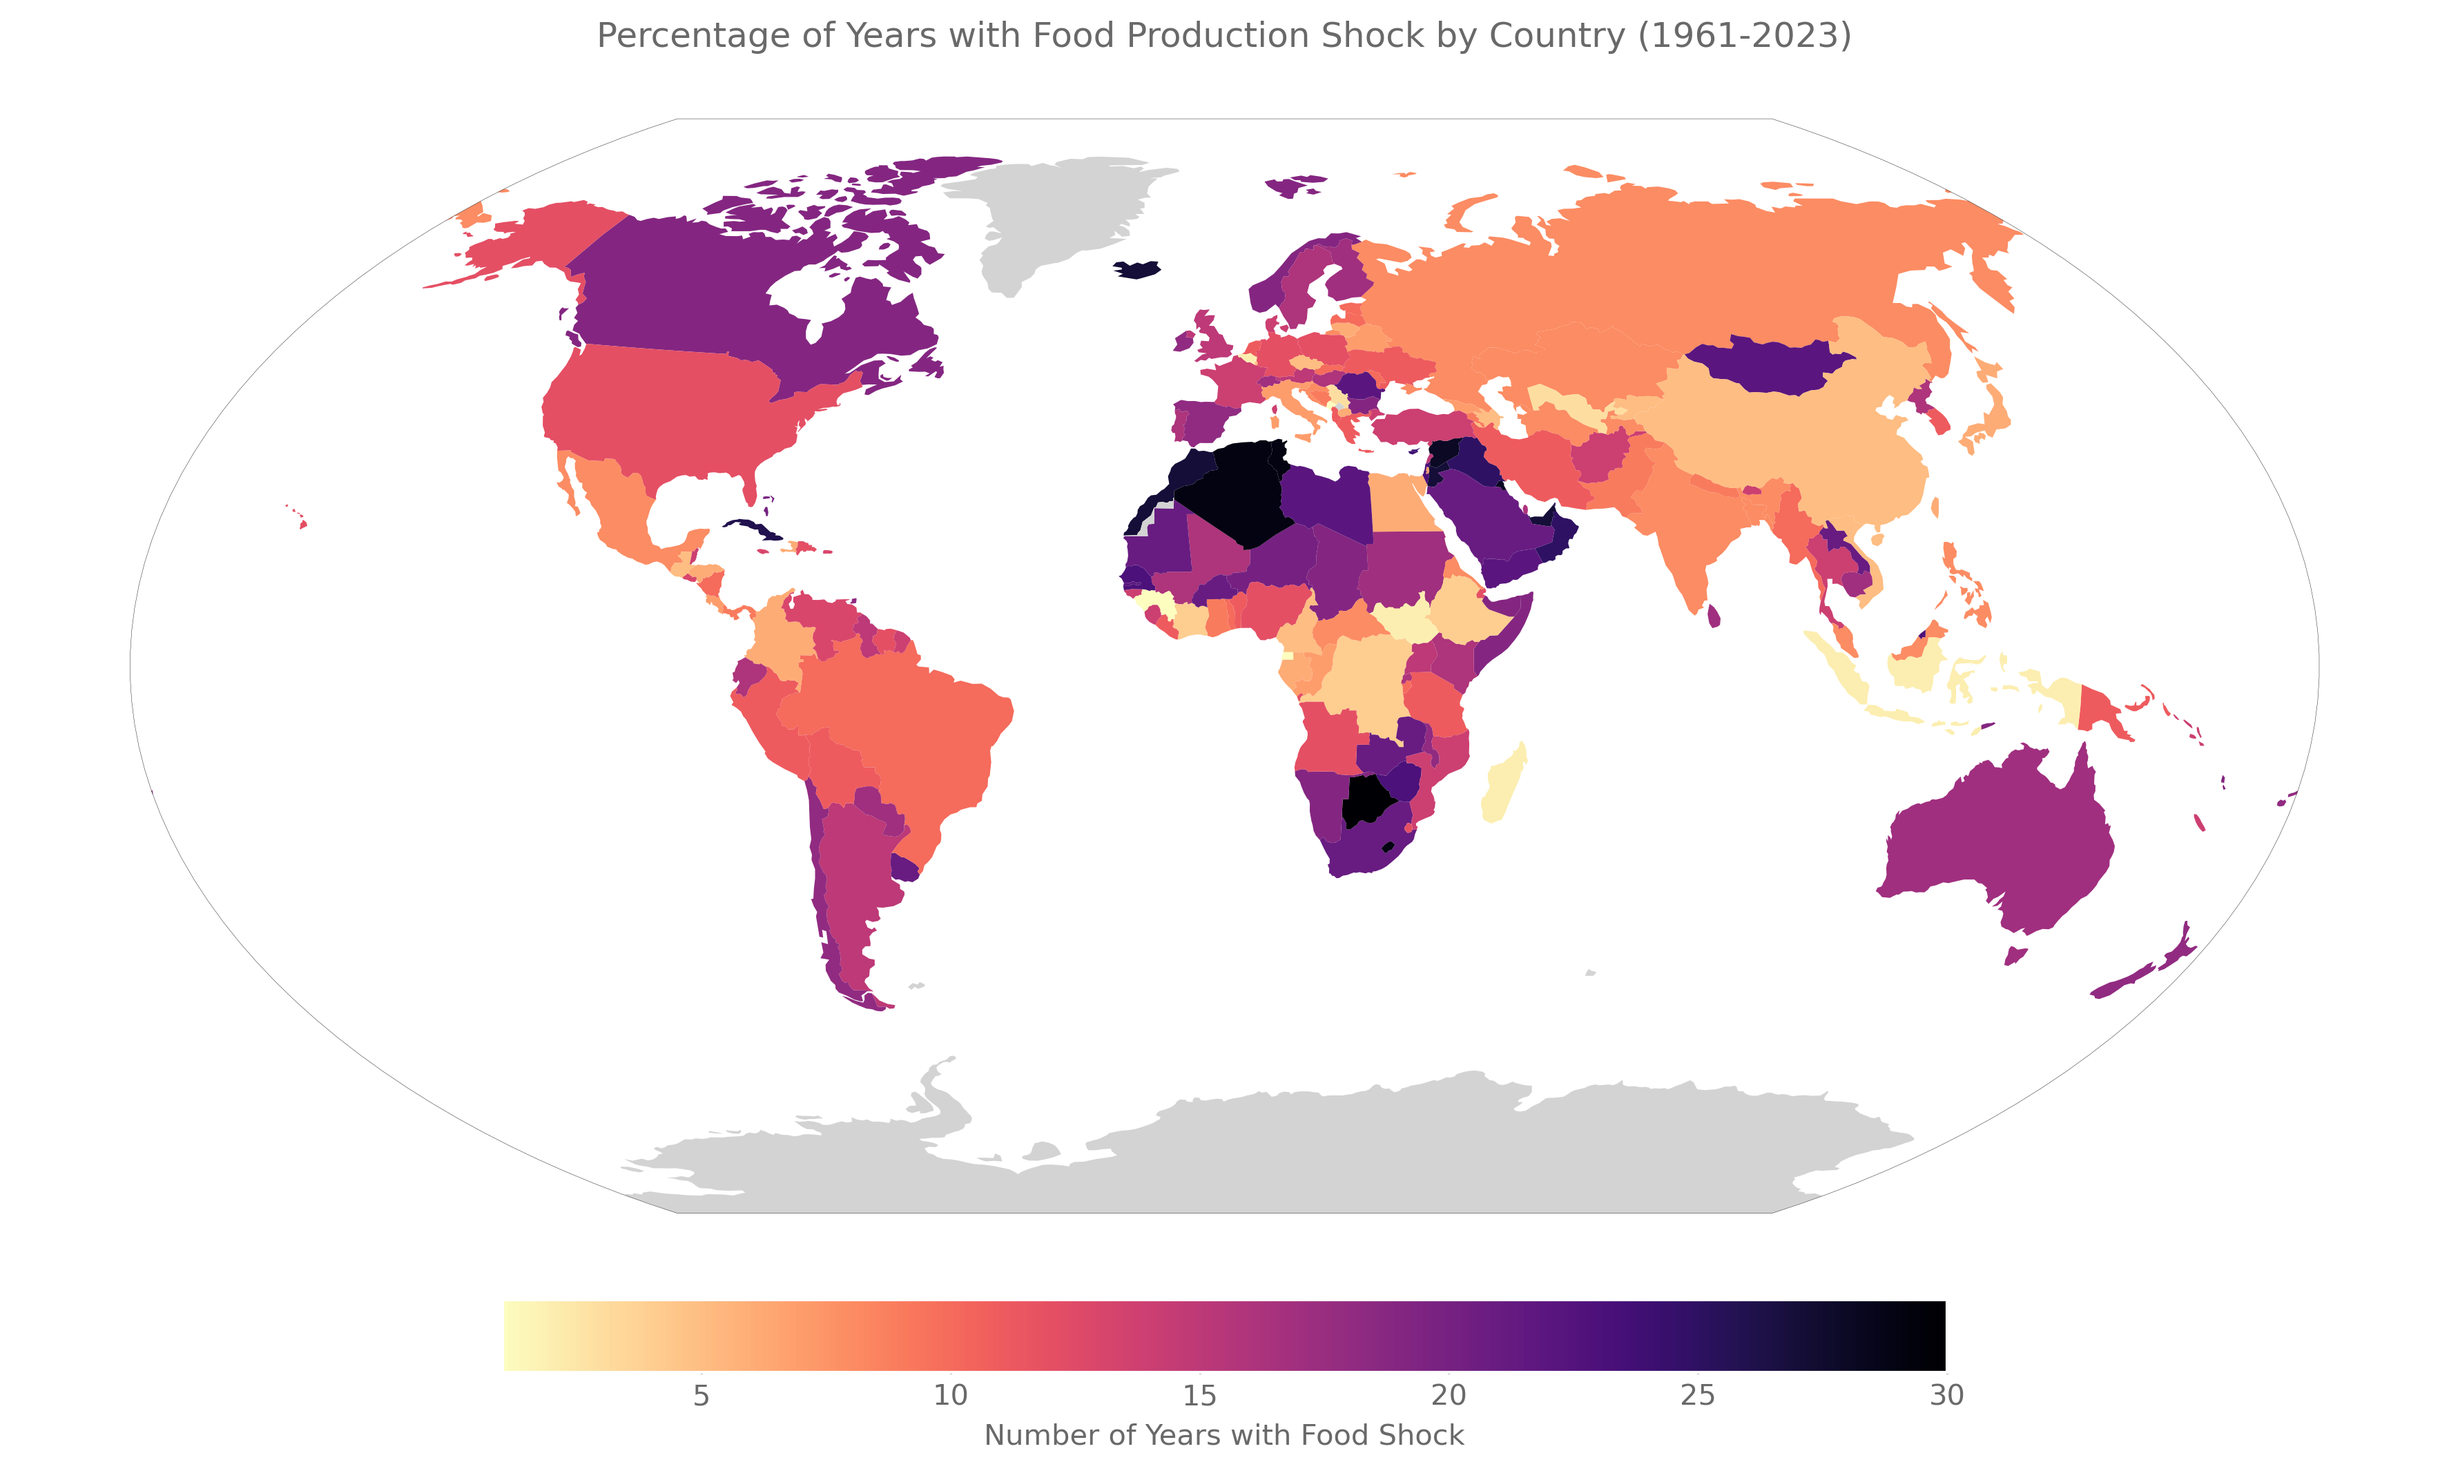
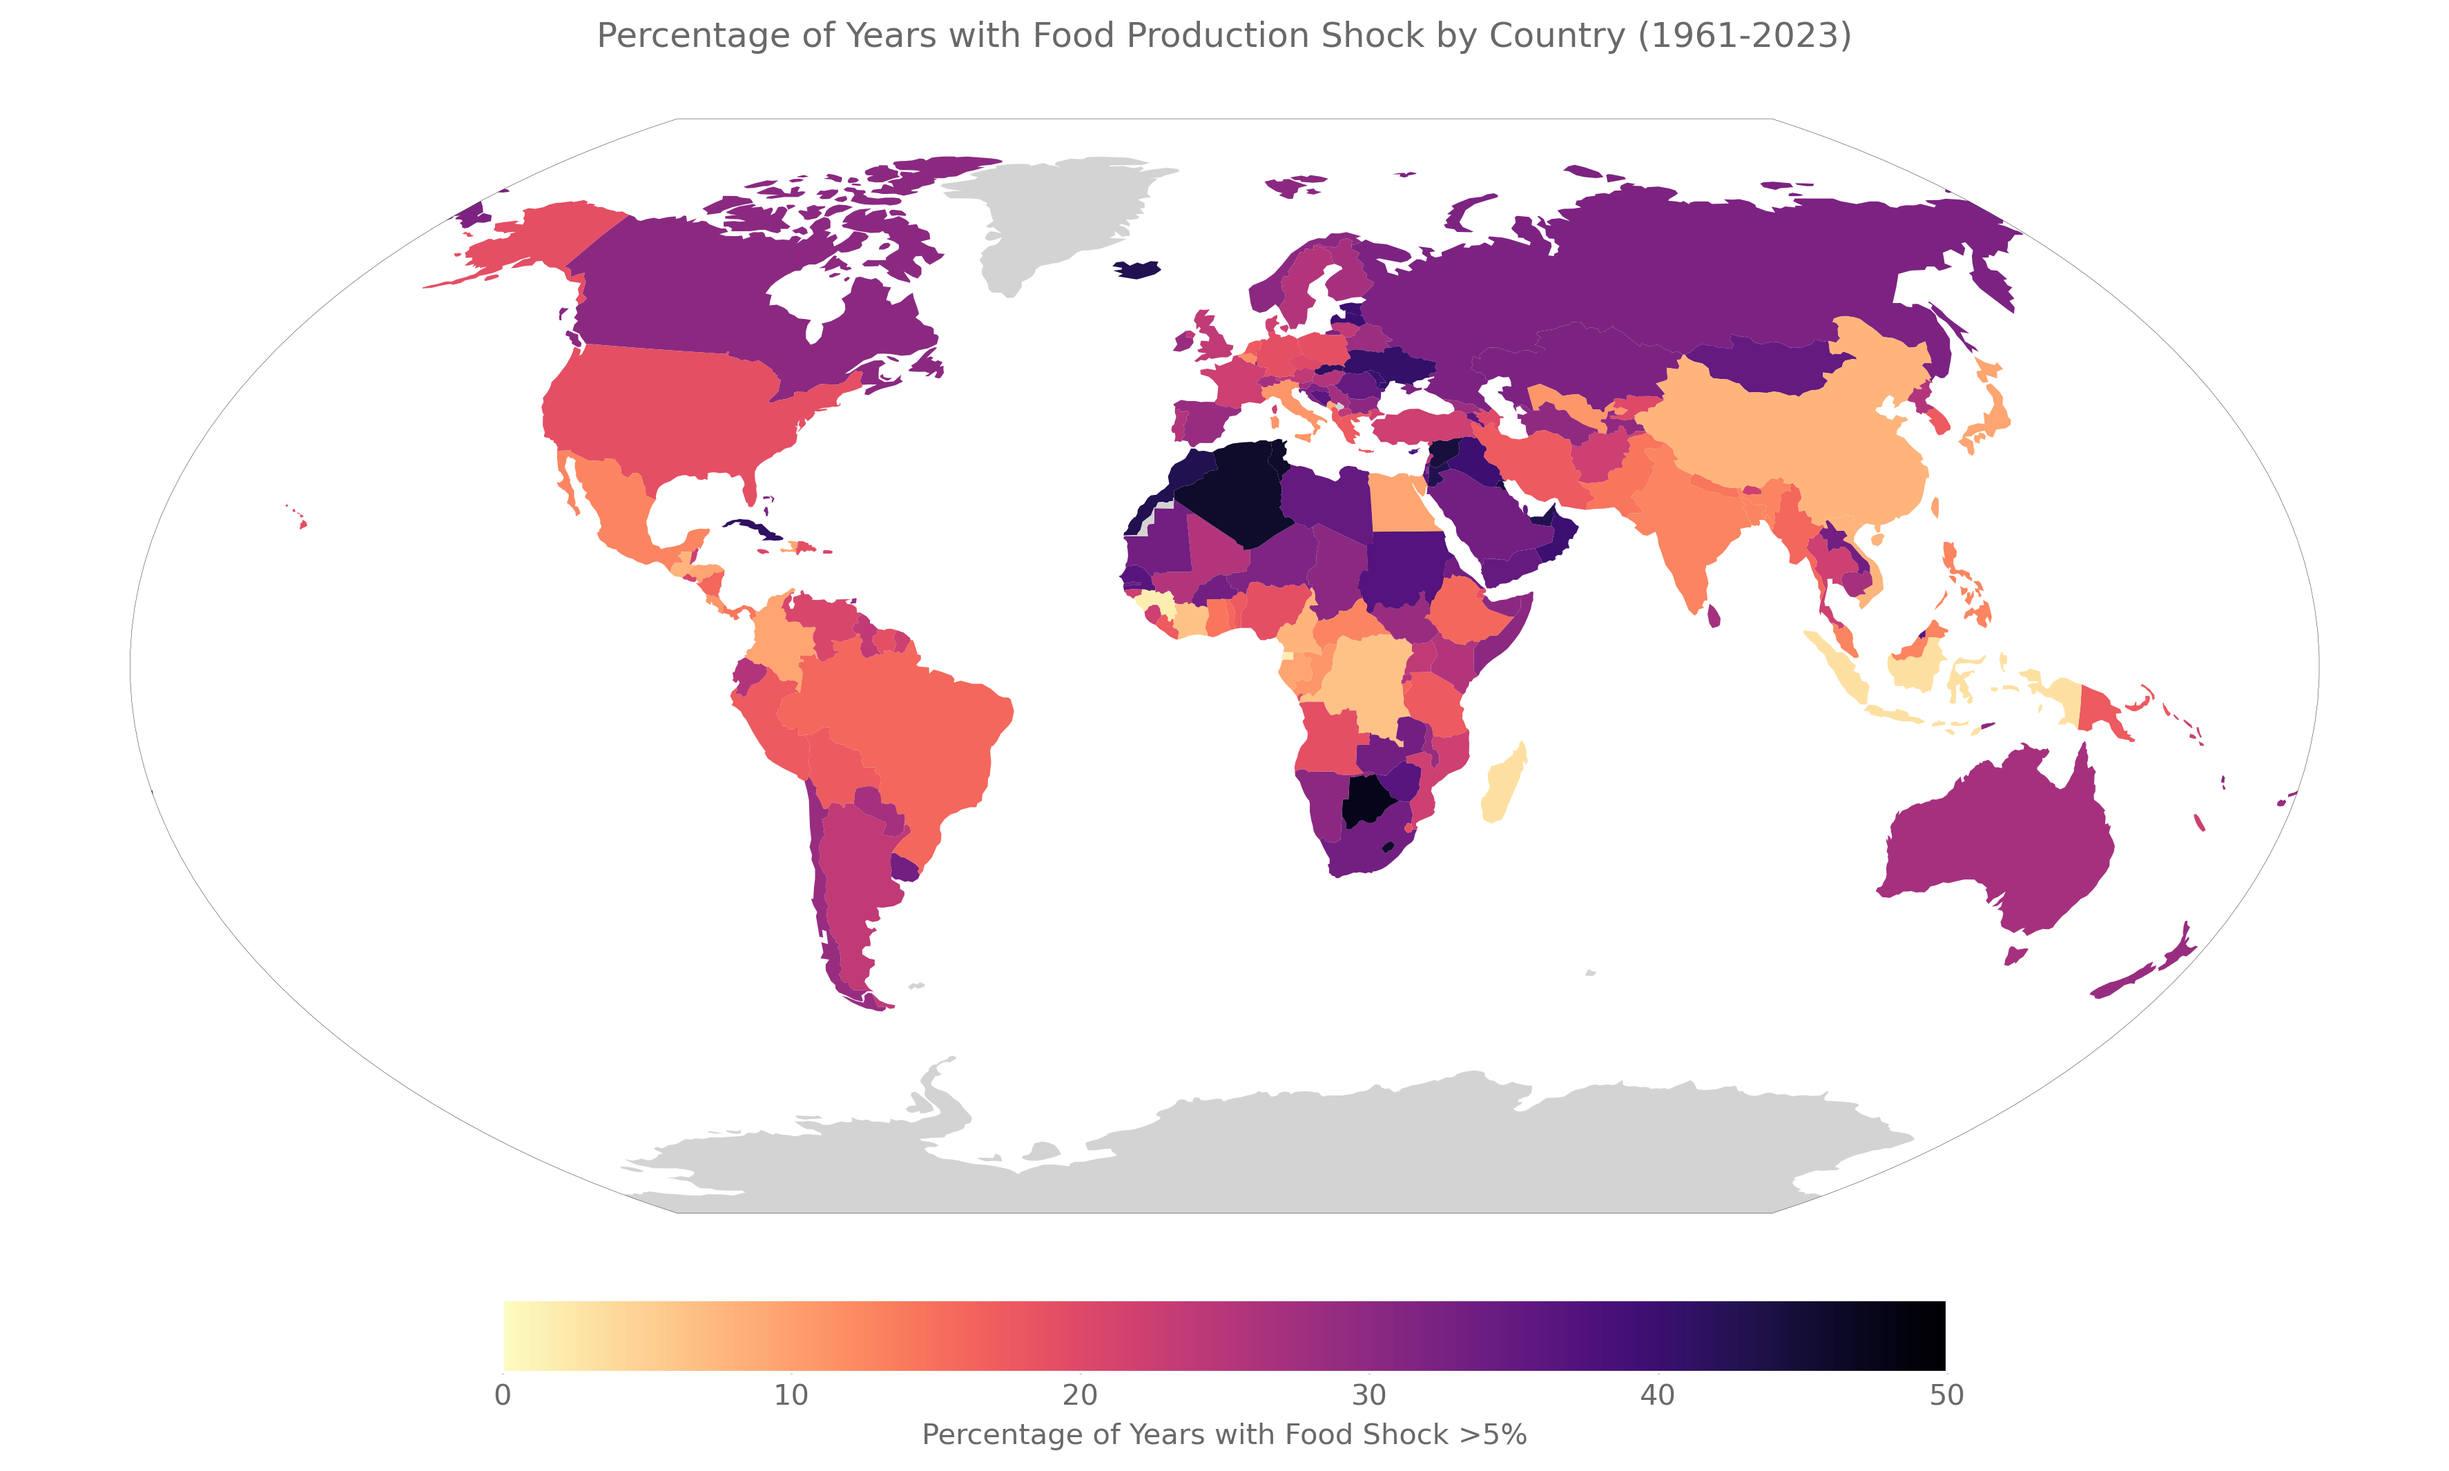
Updated relative shock occurance map

diff --git a/src/plot_maps.py b/src/plot_maps.py
@@ -139,34 +139,77 @@ def plot_map_yield_shock_relative(merged, title, filename):
 
 def plot_map_yield_shock_count(merged, title, filename):
     """
-    Plots the map with the number of years with yield shocks.
+    Plot map showing percentage of years with food production shocks >5%.
+    
     Args:
-        merged (gpd.GeoDataFrame): Merged GeoDataFrame.
+        merged (gpd.GeoDataFrame): Merged GeoDataFrame with shock percentages.
         title (str): Title for the plot.
         filename (str): Filename to save the plot.
     """
     fig, ax = plt.subplots(1, 1, figsize=(15, 10))
     # Set the map to the Winkel Tripel projection
     merged = merged.to_crs("+proj=wintri")
-
+    
+    # Plot with percentage values
     merged.plot(
-        column="food_shock_count",
+        column="shock_percentage",
         ax=ax,
         legend=True,
         legend_kwds={
-            "label": "Number of Years with Food Shock",
+            "label": "Percentage of Years with Food Shock >5%",
             "orientation": "horizontal",
             "pad": 0.02,
             "shrink": 0.6,
         },
         cmap="magma_r",
-        vmax=merged["food_shock_count"].max(),
+        vmin=0,  # Percentages range from 0 to 100
+        vmax=50,
         missing_kwds={"color": "lightgrey"},
     )
     plot_winkel_tripel_map(ax)
     ax.set_title(title)
     plt.savefig(filename, bbox_inches="tight")
     plt.close()
+
+
+def merge_data_with_map_count(df, map_df):
+    """
+    Calculate percentage of years with food shocks >5% for each country.
+    
+    Accounts for countries that didn't exist for the full time period by
+    using only non-NaN values to determine existence period.
+    
+    Args:
+        df (pd.DataFrame): DataFrame with countries in name_short format.
+        map_df (gpd.GeoDataFrame): GeoDataFrame with country geometries.
+    
+    Returns:
+        gpd.GeoDataFrame: Merged GeoDataFrame with shock percentages.
+    """
+    # Create a new column name_short in the map DataFrame
+    map_df["name_short"] = coco.convert(
+        map_df["ADMIN"], to="name_short", not_found=None
+    )
+    
+    # Calculate shock statistics for each country
+    # Count years with shocks larger than 5% (values < -5)
+    shock_counts = (df < -5).sum(axis=1)
+    
+    # Count total years of existence (non-NaN values)
+    years_existed = df.notna().sum(axis=1)
+    
+    # Calculate percentage (avoid division by zero)
+    shock_percentage = (shock_counts / years_existed * 100).fillna(0)
+    
+    # Create DataFrame with the percentage
+    shock_stats = pd.DataFrame({
+        "shock_percentage": shock_percentage
+    })
+    
+    # Merge the data with the map
+    merged = map_df.merge(shock_stats, left_on="name_short", right_index=True, how="left")
+    
+    return merged
 
 
 def plot_map_shock_categories(
